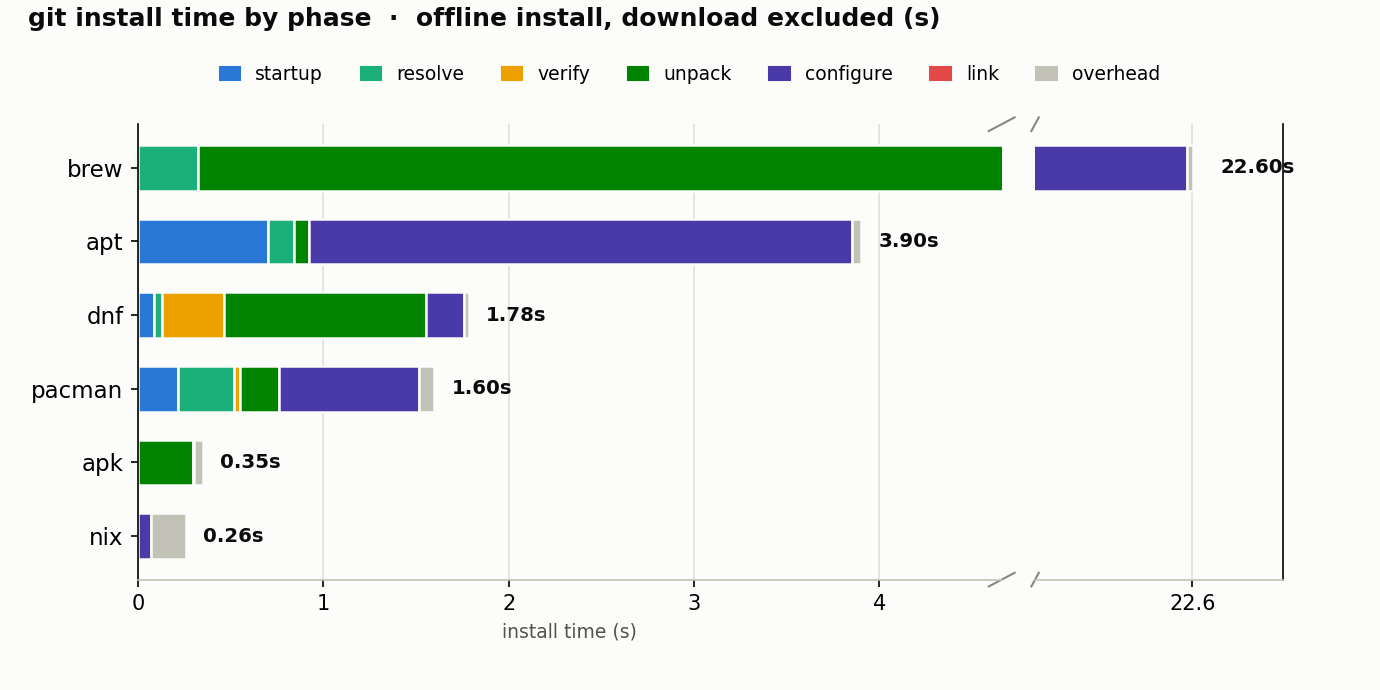
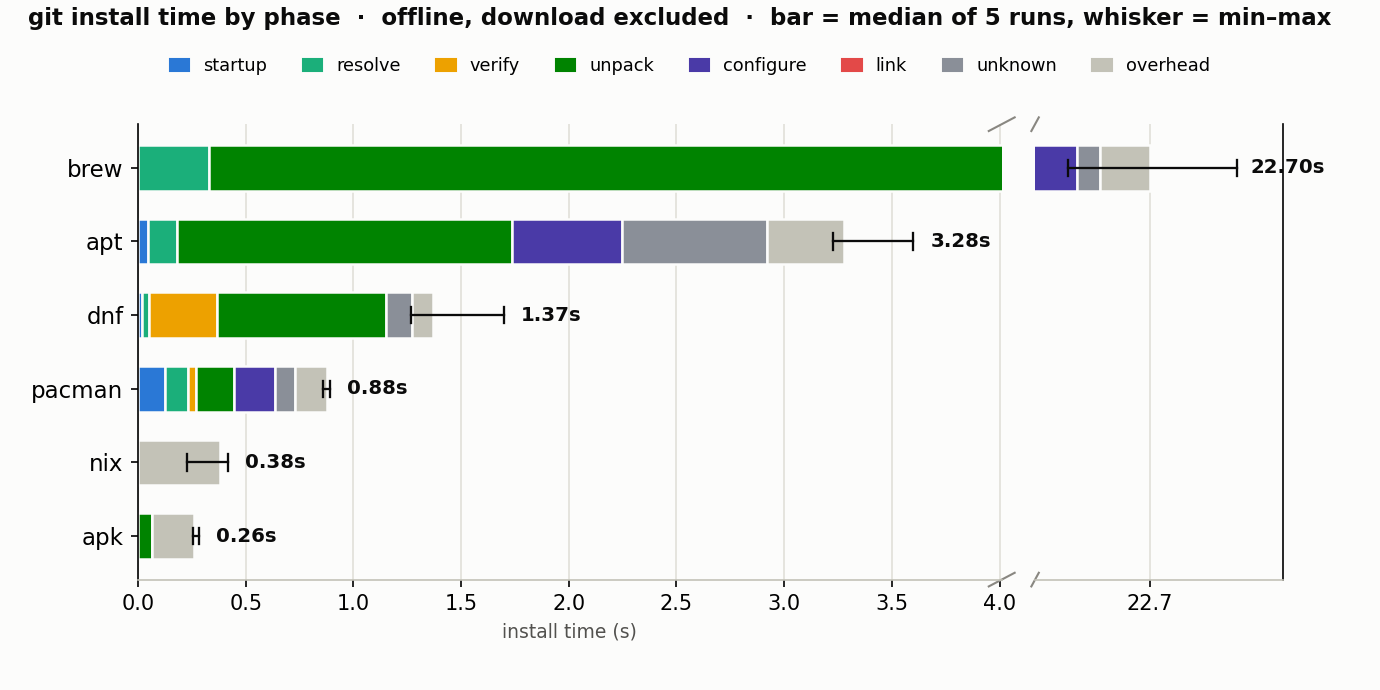
Fix benchmark soundness: median-of-N, fail-loud, timing & bucketing fixes
Harness (_lib.sh): install now runs REPS times (default 5) in fresh
--network none containers off a committed warm-cache image; reports median +
min-max. Timing is host wall-clock minus a measured docker-exec baseline
(fixes overhead skew; also fixes alpine/busybox lacking date %N). Install exit
code is checked -> fail-loud, no bogus numbers.

ts.js: prime the delta on the first line so node-startup/exec latency is no
longer charged into a phase bucket (apk's phantom 0.30s step is gone).

synthesize.js: fix bucketing (apt unpack no longer dumped in configure; drop
bare 'db'; add keyring); unmatched lines -> visible 'unknown' bucket, never a
silent catch-all. Fix extractors (brew deps 32, dnf deps parse). Emit
min/max/reps/image_digest.

chart.py: add unknown bucket + min-max whiskers; caption notes median-of-N.

README: nix symlink-flip caveat, variance/reproducibility, resolve asymmetry,
:latest drift, three-stage flow.

diff --git a/synthesize.js b/synthesize.js
@@ -2,7 +2,7 @@
 'use strict';
 // Stage 2 synthesis: parse the ts-stamped logs + <mgr>.json, classify install lines
 // into canonical phase buckets, and emit a correlation matrix (phases x managers) to
-// stdout and results/RESULTS.md. Pure regex over the logs -- no manual numbers.
+// stdout, results/RESULTS.md, results/data.json, and the README. No manual numbers.
 const fs = require('fs');
 const path = require('path');
 const os = require('os');
@@ -12,24 +12,28 @@ const OUT = path.join(__dirname, 'results');
 const ORDER = ['apk', 'pacman', 'dnf', 'apt', 'nix', 'brew'];
 
 // Canonical install phases. Each install-log line is bucketed by the FIRST pattern it
-// matches, in this order. Heuristic + cross-manager -> approximate by design.
+// matches, in this order; unmatched lines go to a VISIBLE 'unknown' bucket (never a
+// silent catch-all). Heuristic + cross-manager -> approximate by design.
 const PHASES = [
-  ['startup',   /read(ing)? (package |state |data)|loading|initiali|dnf5|apk-tools|^\s*[\d.]+\s+$|db|repositor/i],
-  ['resolve',   /resolv|depend|prepar|transaction (check|test)|checking (keys|integrity|conflict|available|space)|conflict|Running transaction check/i],
+  ['startup',   /read(ing)? (package |state |data)|loading|initiali|dnf5|apk-tools|^\s*[\d.]+\s+$|\bdatabase\b|\brepositor/i],
+  ['resolve',   /resolv|depend|prepar|transaction (check|test)|checking (keys|keyring|integrity|conflict|available|space)|conflict|Running transaction check/i],
   ['verify',    /verif|integrity|signature|openpgp|gpg|check.*integrity/i],
-  ['unpack',    /unpack|installing|pour|🍺|cellar\/|extract|upgrad|downgrad|copying path|inflat/i],
+  ['unpack',    /unpack|installing|pour|🍺|cellar\/|extract|upgrad|downgrad|copying path|inflat|selecting previously unselected|preparing to unpack/i],
   ['configure', /setting up|scriptlet|processing triggers|post.?install|hook|sysusers|systemd|configur|certificate|template|update-|caveat|running/i],
   ['link',      /link|symlink|ldconfig|profile|generation|building profile/i],
 ];
+const PHASE_KEYS = PHASES.map(([k]) => k);
+const DISPLAY_PHASES = [...PHASE_KEYS, 'unknown'];
 
-// Best-effort dep-count / download-size extractors over the DOWNLOAD log text.
+// Best-effort dep-count / download-size extractors. Each gets (downloadText, installText).
 const DL_INFO = {
-  apt:    (t) => ({ size: cap(t, /Need to get ([\d.]+ ?[kMG]i?B)/i), deps: count(t, /\bGet:\d+/g) }),
-  apk:    (t) => ({ size: null,                                       deps: count(t, /Downloading /gi) }),
-  dnf:    (t) => ({ size: cap(t, /Total (?:download )?size:\s*([\d.]+ ?[kMG]i?B)/i), deps: count(t, /\(\d+\/\d+\):/g) }),
-  pacman: (t) => ({ size: cap(t, /Total Download Size:\s*([\d.]+ ?[kMG]i?B)/i), deps: cap(t, /Packages? \((\d+)\)/) }),
-  nix:    (t) => ({ size: cap(t, /([\d.]+ ?[kMG]i?B) download/i),     deps: cap(t, /(\d+) paths? will be fetched/i) }),
-  brew:   (t) => ({ size: null,                                       deps: count(t, /Downloading |Already downloaded/gi) }),
+  apt:    (d) => ({ size: cap(d, /Need to get ([\d.]+ ?[kMG]i?B)/i), deps: count(d, /\bGet:\d+/g) }),
+  apk:    (d) => ({ size: null,                                       deps: count(d, /Downloading /gi) }),
+  dnf:    (d, i) => ({ size: cap(d, /(?:Total size of inbound packages is|Total (?:download )?size:?)\s*([\d.]+ ?[kMG]i?B)/i),
+                      deps: count(i, /\]\s*Installing /gi) || count(d, /\(\d+\/\d+\):/g) }),
+  pacman: (d) => ({ size: cap(d, /Total Download Size:\s*([\d.]+ ?[kMG]i?B)/i), deps: cap(d, /Packages? \((\d+)\)/) }),
+  nix:    (d) => ({ size: cap(d, /([\d.]+ ?[kMG]i?B) download/i),     deps: cap(d, /(\d+) paths? will be fetched/i) }),
+  brew:   (d, i) => ({ size: null,                                     deps: count(i, /🍺/g) }),
 };
 
 function cap(t, re) { const m = t.match(re); return m ? m[1] : null; }
@@ -41,13 +45,13 @@ function parseTs(text) {
   return text.split('\n').map((l) => {
     const m = l.match(/^\s*([\d.]+)\s+(.*)$/);
     return m ? { d: parseFloat(m[1]), text: m[2] } : null;
-  }).filter(Boolean);
+  }).filter(Boolean).filter((x) => !x.text.startsWith('__TIMER__')); // drop the timing marker
 }
 function bucketize(lines) {
-  const b = Object.fromEntries(PHASES.map(([k]) => [k, 0]));
+  const b = Object.fromEntries(DISPLAY_PHASES.map((k) => [k, 0]));
   for (const { d, text } of lines) {
     const hit = PHASES.find(([, re]) => re.test(text));
-    b[hit ? hit[0] : 'configure'] += d;
+    b[hit ? hit[0] : 'unknown'] += d;
   }
   return b;
 }
@@ -62,7 +66,7 @@ for (const m of ORDER) {
   let meta;
   try { meta = JSON.parse(fs.readFileSync(path.join(OUT, `${m}.json`), 'utf8')); } catch { continue; }
   const installLines = parseTs(readLog(m, 'install'));
-  const info = (DL_INFO[m] || (() => ({})))(readLog(m, 'download'));
+  const info = (DL_INFO[m] || (() => ({})))(readLog(m, 'download'), readLog(m, 'install'));
   rows.push({
     ...meta,
     buckets: bucketize(installLines),
@@ -77,6 +81,7 @@ if (!rows.length) { console.error('No results found in results/. Run `node run.j
 const cols = rows.map((r) => r.manager);
 const pad = (s, w) => String(s).padEnd(w);
 const num = (v) => (v == null ? '—' : Number(v).toFixed(2));
+const spread = (r) => (r.install_min == null ? '—' : `${Number(r.install_min).toFixed(2)}–${Number(r.install_max).toFixed(2)}`);
 
 function matrix() {
   const label = (s) => pad(s, 20);
@@ -84,10 +89,11 @@ function matrix() {
   const lines = [];
   lines.push(label('phase (seconds)') + cols.map((c) => cell(c)).join(''));
   lines.push('-'.repeat(20 + cols.length * 9));
-  lines.push(label('download') + rows.map((r) => cell(num(r.download_s))).join(''));
-  for (const [k] of PHASES)
+  lines.push(label('download*') + rows.map((r) => cell(num(r.download_s))).join(''));
+  for (const k of DISPLAY_PHASES)
     lines.push(label('  install:' + k) + rows.map((r) => cell(num(r.buckets[k]))).join(''));
-  lines.push(label('install TOTAL') + rows.map((r) => cell(num(r.install_s))).join(''));
+  lines.push(label('install MEDIAN') + rows.map((r) => cell(num(r.install_s))).join(''));
+  lines.push(label('install min–max') + rows.map((r) => cell(spread(r))).join(''));
   lines.push('-'.repeat(20 + cols.length * 9));
   lines.push(label('git version') + rows.map((r) => cell(r.git)).join(''));
   lines.push(label('deps') + rows.map((r) => cell(r.deps ?? '—')).join(''));
@@ -127,18 +133,21 @@ function body() {
   const head = `| phase (s) | ${cols.join(' | ')} |`;
   const sep = `|---|${cols.map(() => '---:').join('|')}|`;
   const row = (label, fn) => `| ${label} | ${rows.map(fn).join(' | ')} |`;
+  const reps = rows[0] ? rows[0].reps : '?';
   return [
     '### Host', '', ...hwLines(HW), '',
     '### Phase correlation matrix', '',
-    '_Install sub-phases are a heuristic bucketing of log lines (see README); the',
-    '`download` and `install TOTAL` rows are ground truth._', '',
+    `_\`install MEDIAN\` is the median of ${reps} offline runs (\`install min–max\` shown); sub-phases are a heuristic bucketing of log lines (see README). \`download*\` is a single, network-dependent sample._`, '',
     head, sep,
-    row('**download**', (r) => num(r.download_s)),
-    ...PHASES.map(([k]) => row('install: ' + k, (r) => num(r.buckets[k]))),
-    row('**install TOTAL**', (r) => num(r.install_s)),
+    row('**download\\***', (r) => num(r.download_s)),
+    ...DISPLAY_PHASES.map((k) => row('install: ' + k, (r) => num(r.buckets[k]))),
+    row('**install MEDIAN**', (r) => num(r.install_s)),
+    row('install min–max', (r) => spread(r)),
     row('git version', (r) => r.git),
     row('deps', (r) => r.deps ?? '—'),
     row('download size', (r) => r.size ?? '—'),
+    '',
+    "_**nix** caveat: its install is a profile symlink flip — unpack happens during the download phase (store realization), so its install time is **not** comparable to the others' unpack. Package counts also differ widely (see README caveats)._",
     '', '### Top install sub-steps (by measured delta)', '',
     ...rows.map((r) => `- **${r.manager}** (${r.image}): ` + r.top.map((s) => `\`${s}\``).join(' · ')),
   ].join('\n');
@@ -166,8 +175,9 @@ fs.writeFileSync(path.join(OUT, 'RESULTS.md'), '# Results — `git` install phas
 fs.writeFileSync(path.join(OUT, 'data.json'), JSON.stringify({
   host: HW,
   managers: rows.map((r) => ({
-    manager: r.manager, image: r.image, git: r.git,
-    download_s: r.download_s, install_s: r.install_s, buckets: r.buckets,
+    manager: r.manager, image: r.image, git: r.git, reps: r.reps,
+    download_s: r.download_s, install_s: r.install_s,
+    install_min: r.install_min, install_max: r.install_max, buckets: r.buckets,
   })),
 }, null, 2));
 updateReadme('![git install time by phase](chart.png)\n\n' + section);

diff --git a/lib/ts.js b/lib/ts.js
@@ -3,10 +3,13 @@
 // line. Dependency-free stand-in for moreutils `ts -i` so the bench needs no extra
 // system packages. Output format per line: "  <delta>  <text>".
 const rl = require('readline').createInterface({ input: process.stdin });
-let last = process.hrtime.bigint();
+// `last` is primed on the FIRST line (delta 0), not at process start — otherwise
+// the first line would be charged node-startup + docker-exec-to-first-output
+// latency, which would land in a phase bucket and inflate it.
+let last = null;
 rl.on('line', (raw) => {
   const now = process.hrtime.bigint();
-  const delta = Number(now - last) / 1e9;
+  const delta = last === null ? 0 : Number(now - last) / 1e9;
   last = now;
   const text = raw.replace(/\r/g, '');
   process.stdout.write(delta.toFixed(3).padStart(8) + '  ' + text + '\n');

diff --git a/chart.py b/chart.py
@@ -14,12 +14,12 @@ ROOT = os.path.dirname(os.path.abspath(__file__))
 DATA = os.path.join(ROOT, "results", "data.json")
 
 PHASES = ["startup", "resolve", "verify", "unpack", "configure", "link"]
-SEGMENTS = PHASES + ["overhead"]
-# Validated 6-slot categorical palette (dataviz skill) + muted gray for overhead.
+SEGMENTS = PHASES + ["unknown", "overhead"]
+# Validated 6-slot categorical palette (dataviz skill) + grays for unknown/overhead.
 COLORS = {
     "startup": "#2a78d6", "resolve": "#1baf7a", "verify": "#eda100",
     "unpack": "#008300", "configure": "#4a3aa7", "link": "#e34948",
-    "overhead": "#c3c2b7",
+    "unknown": "#8a8f98", "overhead": "#c3c2b7",
 }
 
 
@@ -53,21 +53,32 @@ def main():
     mgrs.sort(key=lambda m: m["install_s"])  # ascending
     names = [m["manager"] for m in mgrs]
     totals = [m["install_s"] for m in mgrs]
+    lows = [m.get("install_min", t) for m, t in zip(mgrs, totals)]
+    highs = [m.get("install_max", t) for m, t in zip(mgrs, totals)]
+
+    def whisker(ax, i):
+        lo, hi = lows[i], highs[i]
+        if hi > lo:
+            ax.plot([lo, hi], [i, i], color="#0b0b0b", lw=1.1, zorder=6)
+            for x in (lo, hi):
+                ax.plot([x, x], [i - 0.11, i + 0.11], color="#0b0b0b", lw=1.1, zorder=6)
 
     top = max(totals)
-    others = max([t for t in totals if t < top], default=0.0)
+    oi = totals.index(top)  # outlier row
+    others = max([t for j, t in enumerate(totals) if j != oi], default=0.0)
+    non_out_hi = max([highs[j] for j in range(len(totals)) if j != oi], default=top)
     broken = top > 4 * others and top > 5 and others > 0
     h = 1.6 + 0.5 * len(mgrs)
 
     plt.rcParams["font.family"] = "sans-serif"
     if broken:
-        left_max = round(others * 1.18 + 0.05, 2)
+        left_max = round(non_out_hi * 1.10 + 0.05, 2)
         fig, (axl, axr) = plt.subplots(
             1, 2, sharey=True, figsize=(9.2, h), dpi=150,
             gridspec_kw={"width_ratios": [4, 1.15], "wspace": 0.06})
         draw(axl, mgrs); draw(axr, mgrs)
         axl.set_xlim(0, left_max)
-        axr.set_xlim(top * 0.965, top * 1.02)
+        axr.set_xlim(lows[oi] * 0.985, highs[oi] * 1.02)
         axr.set_xticks([round(top, 2)])
         axl.spines[["right", "top"]].set_visible(False)
         axr.spines[["left", "top"]].set_visible(False)
@@ -81,27 +92,30 @@ def main():
         axl.set_yticks(range(len(names))); axl.set_yticklabels(names, fontsize=11)
         axl.set_xlabel("install time (s)", fontsize=9, color="#52514e")
         for i, t in enumerate(totals):
-            ax = axr if t > left_max else axl
-            ax.text(t + (top * 0.006 if ax is axr else left_max * 0.02), i,
+            ax = axr if i == oi else axl
+            whisker(ax, i)
+            ax.text(highs[i] + (top * 0.006 if ax is axr else left_max * 0.02), i,
                     f"{t:.2f}s", va="center", fontsize=9.5, fontweight="bold", color="#0b0b0b")
     else:
         fig, ax = plt.subplots(figsize=(9.2, h), dpi=150)
         draw(ax, mgrs)
-        ax.set_xlim(0, top * 1.10)
+        ax.set_xlim(0, max(highs) * 1.12)
         ax.spines[["right", "top"]].set_visible(False)
         ax.spines["bottom"].set_color("#c3c2b7")
         ax.set_yticks(range(len(names))); ax.set_yticklabels(names, fontsize=11)
         ax.set_xlabel("install time (s)", fontsize=9, color="#52514e")
         for i, t in enumerate(totals):
-            ax.text(t + top * 0.012, i, f"{t:.2f}s", va="center", fontsize=9.5,
+            whisker(ax, i)
+            ax.text(highs[i] + top * 0.012, i, f"{t:.2f}s", va="center", fontsize=9.5,
                     fontweight="bold", color="#0b0b0b")
 
     fig.patch.set_facecolor("#fcfcfb")
     handles = [plt.Rectangle((0, 0), 1, 1, color=COLORS[s]) for s in SEGMENTS]
     fig.legend(handles, SEGMENTS, ncol=len(SEGMENTS), loc="upper center",
-               bbox_to_anchor=(0.5, 0.93), frameon=False, fontsize=9, handlelength=1.1)
-    fig.suptitle("git install time by phase  ·  offline install, download excluded (s)",
-                 x=0.02, ha="left", y=0.99, fontsize=12, fontweight="bold", color="#0b0b0b")
+               bbox_to_anchor=(0.5, 0.94), frameon=False, fontsize=8.5, handlelength=1.1)
+    reps = mgrs[0].get("reps", "?")
+    fig.suptitle(f"git install time by phase  ·  offline, download excluded  ·  bar = median of {reps} runs, whisker = min–max",
+                 x=0.02, ha="left", y=0.99, fontsize=11, fontweight="bold", color="#0b0b0b")
     fig.subplots_adjust(top=0.82, bottom=0.16, left=0.10, right=0.93)
     fig.savefig(os.path.join(ROOT, "chart.png"), facecolor="#fcfcfb")
     print("wrote chart.png")

diff --git a/README.md b/README.md
@@ -6,12 +6,14 @@ dnf, apt, nix, brew**) in throwaway Docker containers, splitting each run into t
 timed phases:
 
 1. **Download** — fetch `git` + all dependencies into the local cache/store (online).
-2. **Install (offline)** — the network is physically disconnected, then `git` is
-   installed *from cache*. This isolates the real install work (unpack, scriptlets,
-   linking) from network speed.
+2. **Install (offline)** — the warm-cache container is frozen to an image, then `git` is
+   installed in a fresh **`--network none`** container, repeated **N times** (default 5).
+   Timing is measured *inside* the container (so docker-exec startup is excluded) and
+   reported as the **median** with min–max. This isolates real install work from network
+   speed and shows run-to-run variance.
 
 Every line of both phases is timestamped with the elapsed time since the previous line,
-so the install can be broken down step by step.
+so the install can be broken down step by step. Set `REPS=<n>` to change the repeat count.
 
 ## Latest results
 
@@ -26,36 +28,39 @@ Auto-generated by `synthesize.js` on the last run — the chart and matrix below
 - **CPU:** 12th Gen Intel(R) Core(TM) i7-12700KF (20 logical cores)
 - **Memory:** 67.2 GB   **Arch:** x64   **Kernel:** 6.1.0-41-amd64
 - **OS:** Debian GNU/Linux 12 (bookworm)   **Docker:** 28.3.1
-- **Disk (/):** /dev/nvme0n1p2 ext4  937G  196G
-- **Generated:** 7/5/2026, 10:18:55 PM PDT
+- **Disk (/):** /dev/nvme0n1p2 ext4  937G  195G
+- **Generated:** 7/5/2026, 10:51:28 PM PDT
 
 ### Phase correlation matrix
 
-_Install sub-phases are a heuristic bucketing of log lines (see README); the
-`download` and `install TOTAL` rows are ground truth._
+_`install MEDIAN` is the median of 5 offline runs (`install min–max` shown); sub-phases are a heuristic bucketing of log lines (see README). `download*` is a single, network-dependent sample._
 
 | phase (s) | apk | pacman | dnf | apt | nix | brew |
 |---|---:|---:|---:|---:|---:|---:|
-| **download** | 1.55 | 3.52 | 11.08 | 5.08 | 15.70 | 88.93 |
-| install: startup | 0.00 | 0.21 | 0.08 | 0.70 | 0.00 | 0.00 |
-| install: resolve | 0.00 | 0.30 | 0.04 | 0.14 | 0.00 | 0.33 |
-| install: verify | 0.00 | 0.03 | 0.33 | 0.00 | 0.00 | 0.00 |
-| install: unpack | 0.30 | 0.21 | 1.09 | 0.08 | 0.00 | 18.56 |
-| install: configure | 0.00 | 0.76 | 0.20 | 2.93 | 0.07 | 3.69 |
+| **download\*** | 1.32 | 2.25 | 13.90 | 2.24 | 6.91 | 82.57 |
+| install: startup | 0.00 | 0.13 | 0.02 | 0.05 | 0.00 | 0.00 |
+| install: resolve | 0.00 | 0.10 | 0.03 | 0.13 | 0.00 | 0.33 |
+| install: verify | 0.00 | 0.04 | 0.31 | 0.00 | 0.00 | 0.00 |
+| install: unpack | 0.06 | 0.18 | 0.79 | 1.56 | 0.00 | 18.87 |
+| install: configure | 0.00 | 0.19 | 0.00 | 0.51 | 0.00 | 2.77 |
 | install: link | 0.00 | 0.00 | 0.00 | 0.00 | 0.00 | 0.00 |
-| **install TOTAL** | 0.35 | 1.60 | 1.78 | 3.90 | 0.26 | 22.60 |
+| install: unknown | 0.00 | 0.09 | 0.12 | 0.67 | 0.00 | 0.23 |
+| **install MEDIAN** | 0.26 | 0.88 | 1.37 | 3.28 | 0.38 | 22.70 |
+| install min–max | 0.25–0.28 | 0.86–0.89 | 1.27–1.70 | 3.23–3.60 | 0.23–0.42 | 21.87–23.57 |
 | git version | 2.54.0 | 2.55.0 | 2.55.0 | 2.39.5 | 2.54.0 | 2.51.2 |
-| deps | 17 | 7 | — | 46 | 84 | 126 |
+| deps | 17 | 7 | 87 | 46 | 84 | 32 |
 | download size | — | 29.06 MiB | — | 25.6 MB | 127.7 MiB | — |
+
+_**nix** caveat: its install is a profile symlink flip — unpack happens during the download phase (store realization), so its install time is **not** comparable to the others' unpack. Package counts also differ widely (see README caveats)._
 
 ### Top install sub-steps (by measured delta)
 
-- **apk** (alpine:latest): `0.234s ( 1/12) Installing brotli-libs (1.2.0-r1)` · `0.037s (12/12) Installing git-init-template (2.54.0-r` · `0.007s ( 4/12) Installing libidn2 (2.3.8-r0)`
-- **pacman** (archlinux:latest): `0.599s :: Running post-transaction hooks...` · `0.196s installing perl-error...` · `0.178s resolving dependencies...`
-- **dnf** (fedora:latest): `0.334s [ 1/99] Verify package files            100% |` · `0.242s [14/99] Installing mpdecimal-0:4.0.1-3. 100% |` · `0.190s [99/99] Removing libsmartcols-0:2.41.4- 100% |`
-- **apt** (debian:12-slim): `0.361s Reading package lists...` · `0.335s 142 added, 0 removed; done.` · `0.249s Selecting previously unselected package perl.`
-- **nix** (nixos/nix): `0.071s warning: 'install' is a deprecated alias for '` · `0.000s warning: you don't have Internet access; disab`
-- **brew** (homebrew/brew): `4.948s 🍺  /home/linuxbrew/.linuxbrew/Cellar/util-lin` · `3.059s 🍺  /home/linuxbrew/.linuxbrew/Cellar/openssl@` · `1.595s 🍺  /home/linuxbrew/.linuxbrew/Cellar/krb5/1.2`
+- **apk** (alpine:latest): `0.037s (12/12) Installing git-init-template (2.54.0-r` · `0.007s ( 4/12) Installing libidn2 (2.3.8-r0)` · `0.004s ( 2/12) Installing c-ares (1.34.6-r0)`
+- **pacman** (archlinux:latest): `0.189s :: Running post-transaction hooks...` · `0.167s installing perl-error...` · `0.107s loading package files...`
+- **dnf** (fedora:latest): `0.314s [ 1/99] Verify package files            100% |` · `0.117s [15/99] Installing python3-libs-0:3.14. 100% |` · `0.106s [99/99] Removing libsmartcols-0:2.41.4- 100% |`
+- **apt** (debian:12-slim): `0.254s 142 added, 0 removed; done.` · `0.200s 0 added, 0 removed; done.` · `0.189s Selecting previously unselected package liblda`
+- **nix** (nixos/nix): `0.000s warning: 'install' is a deprecated alias for '` · `0.000s warning: you don't have Internet access; disab`
+- **brew** (homebrew/brew): `5.016s 🍺  /home/linuxbrew/.linuxbrew/Cellar/util-lin` · `3.190s 🍺  /home/linuxbrew/.linuxbrew/Cellar/openssl@` · `1.602s 🍺  /home/linuxbrew/.linuxbrew/Cellar/krb5/1.2`
 <!-- RESULTS:END -->
 
 ## Run it
@@ -78,9 +83,11 @@ Output lands in `results/` (git-ignored): per-manager `*-download.log`, `*-insta
 
 - **`run.js`** (stage 1) — for each manager, calls `benches/<mgr>.sh`, which uses the
   shared harness `benches/_lib.sh` to: start a container, do untimed **setup** (pull repo
-  metadata, clean state), time the **download**, `docker network disconnect` the
-  container, time the **offline install** (piping every line through `lib/ts.js`), verify
-  `git --version`, and write `<mgr>.json`.
+  metadata, clean state), time the **download**, then `docker commit` the warm-cache
+  container to an image and run the **offline install** `REPS` times, each in a fresh
+  `--network none` container. Timing is host wall-clock minus a measured `docker exec`
+  baseline; every line is piped through `lib/ts.js`; a failed install (or missing
+  `git --version`) fails the manager loudly. Writes the median + min–max to `<mgr>.json`.
 - **`synthesize.js`** (stage 2) — parses the ts-stamped logs with regex, classifies each
   install line into a canonical phase, and emits the **phase × manager matrix**,
   `results/RESULTS.md`, and `results/data.json`.
@@ -89,9 +96,10 @@ Output lands in `results/` (git-ignored): per-manager `*-download.log`, `*-insta
 
 ## Reading the matrix
 
-Rows are phases (seconds), columns are managers. `download` and `install TOTAL` are
-wall-clock ground truth. The `install: *` sub-rows (and the chart's colored segments)
-bucket each timestamped install line into canonical phases:
+Rows are phases (seconds), columns are managers. `install MEDIAN` (median of N runs, with
+`install min–max`) is ground truth; `download*` is a single network-dependent sample. The
+`install: *` sub-rows (and the chart's colored segments) bucket each timestamped install
+line into canonical phases:
 
 | bucket | what lands here |
 |---|---|
@@ -101,20 +109,39 @@ bucket each timestamped install line into canonical phases:
 | `unpack` | unpacking / pouring / extracting / installing file payloads |
 | `configure` | scriptlets, triggers, post-install hooks, sysusers, cert stores |
 | `link` | symlinks, ldconfig, profile generation |
+| `unknown` | lines that matched no rule (visible, never silently folded into another phase) |
+| `overhead` | install wall-time not attributed to any log line (time before first / after last line) |
 
 These sub-buckets are a **heuristic** classification of human-readable log lines and vary
-with tool versions — treat them as directional. The two totals are exact.
+with tool versions — treat them as directional. The totals are exact.
 
 ## Caveats
 
-- Not apples-to-apples: `git` version, dependency count, and base-image baseline differ
-  per manager (e.g. Arch/Alpine ship more in their base, so fewer deps are pulled).
-- Install-phase reads come from the **page cache** (files were written seconds earlier),
-  so they reflect warm-RAM reads, not cold disk.
-- **brew** setup clones the full `homebrew-core` tap (slow — minutes); this is untimed
-  setup and pins installs to the local tap for determinism.
-- Re-running is destructive to same-named containers (`<mgr>-bench`), which are force
-  removed at start and on teardown.
+- **Different-sized workloads.** `git` version, dependency count, and base-image baseline
+  differ per manager (deps range ~7 for pacman to ~87 for dnf/nix, since Arch/Alpine ship
+  more in their base). This is largely *how many packages get unpacked*, not manager
+  speed — don't read the totals as a pure efficiency ranking. The `deps` row shows the
+  spread.
+- **nix's install is not comparable to the others'.** For apt/dnf/pacman/apk/brew the
+  unpack happens during the timed install; for nix it happens during *download* (store
+  realization), so nix's install is just a profile **symlink flip**. Its low install
+  number reflects a different operation, not a faster one.
+- **Install-time resolution differs.** apk/dnf install from an explicit local package set
+  (near-zero resolve); apt/pacman resolve at install time. Small, but it means some
+  install numbers include dependency resolution and some don't.
+- **Reproducibility.** Install is the median of N runs (min–max shown) measured in-container
+  and run under `--network none`, but it is still CPU/IO-sensitive: on a contended host the
+  numbers inflate. Run on an otherwise-idle machine; treat sub-second gaps between the
+  middle managers as within noise. `download*` is a single sample and mixes in mirror
+  speed — not a manager comparison.
+- **Warm page cache.** Install reads come from RAM (files written seconds earlier), so
+  they reflect warm reads, not a cold first-install; this discounts I/O-heavy managers
+  (brew, apt) more than nix. The recorded `image_digest` per manager pins provenance, but
+  base images are `:latest` and drift over time.
+- **brew** setup clones the full `homebrew-core` tap (slow — minutes); untimed, and pins
+  installs to the local tap for determinism.
+- Re-running is destructive to same-named containers (`<mgr>-bench`, `<mgr>-rep*`), which
+  are force-removed at start and teardown.
 
 ## License
 